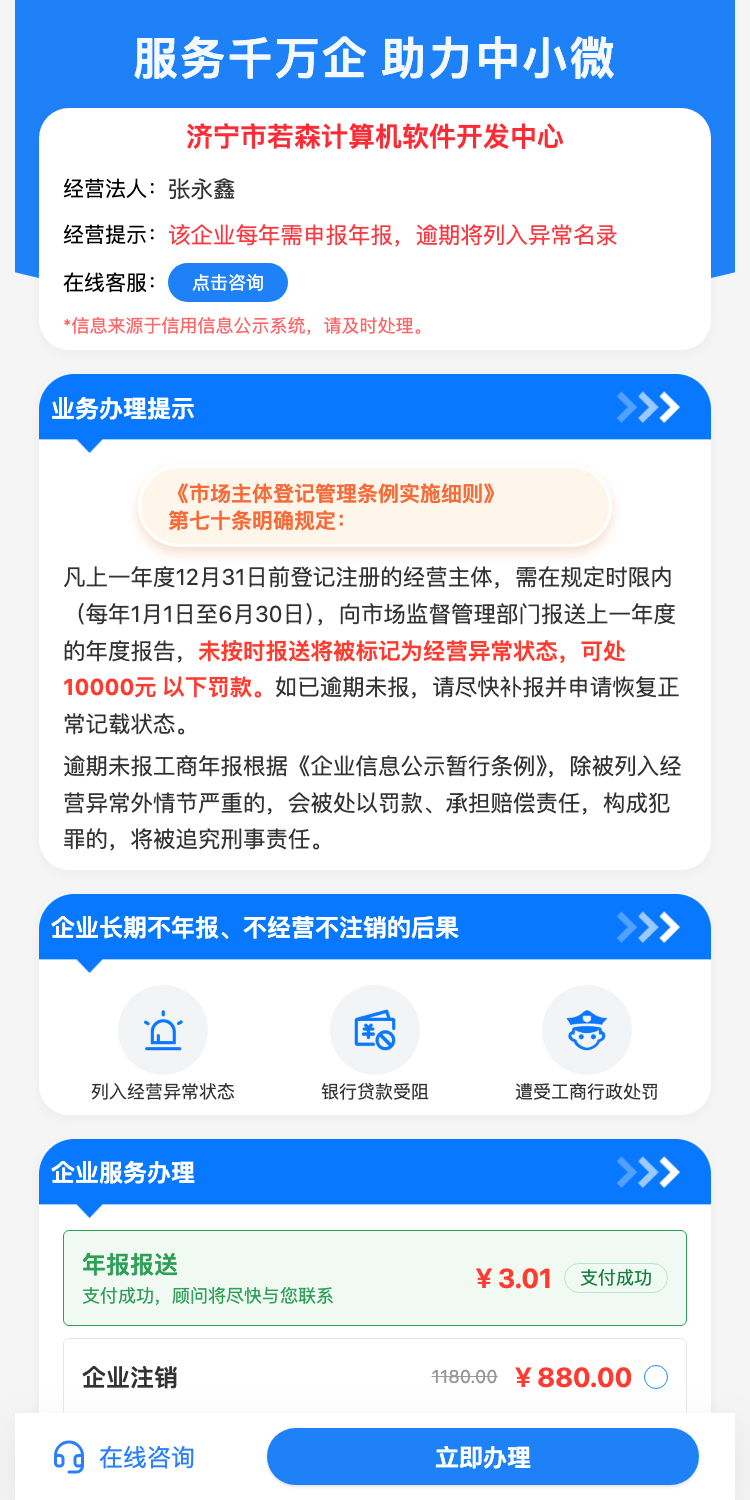
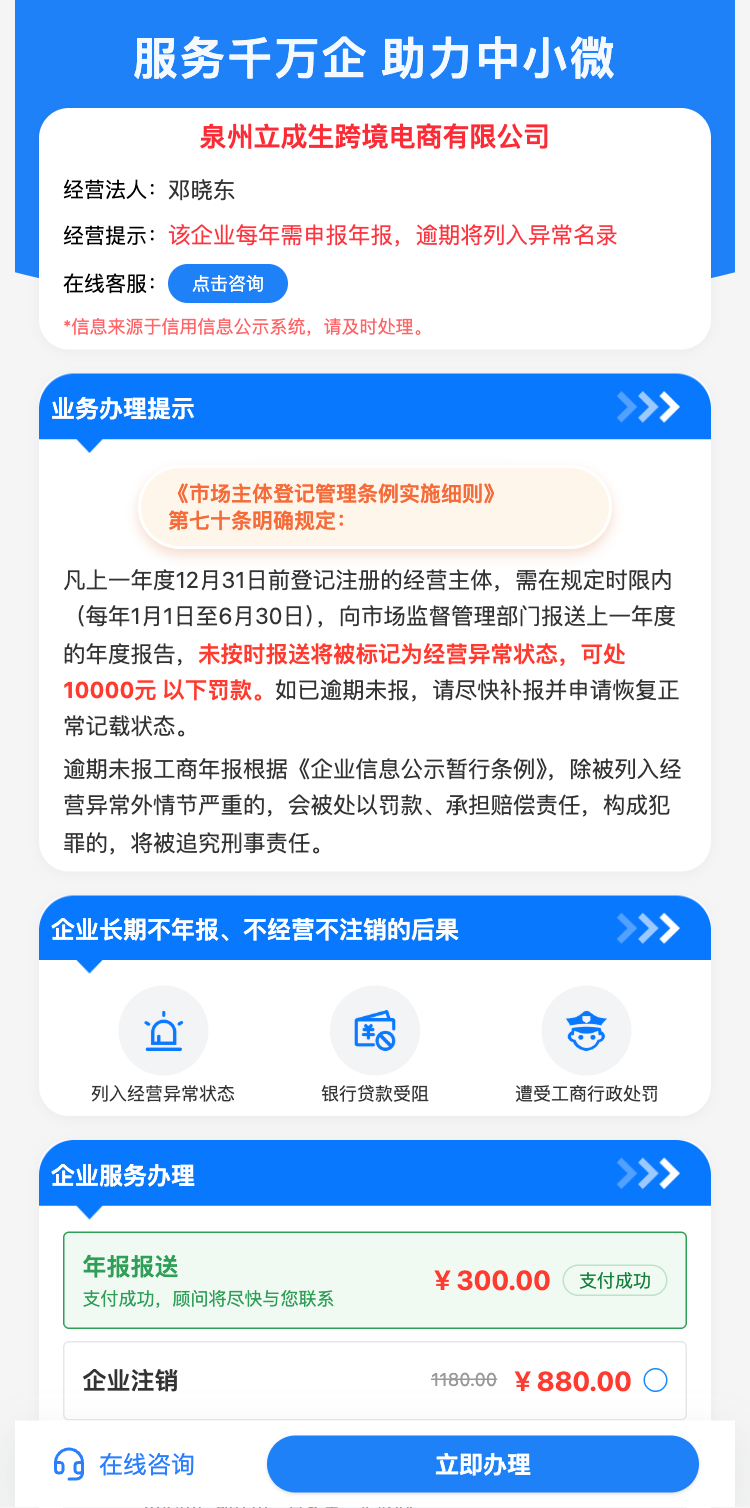
docs: 替换用户端 H5 截图为正常价格企业，补齐服务介绍
- 两张用户端截图换用泉州立成生（全局默认价年报 ¥300/注销 ¥880），
  "支付成功"状态由模拟已支付订单驱动，双图统一 750×1508 规格
- 「我们能做什么」补齐合规与安全保障、专属顾问服务两条，与主仓库 README 一致
- 图片说明改为与实际内容一致：企业专属短链页 / 支付成功提示

diff --git a/README.en.md b/README.en.md
@@ -14,8 +14,8 @@ This repository is for showcasing the enterprise service platform only — it co
 
 <table>
   <tr>
-    <td width="50%"><img src="./docs/image-1.png" alt="Landing page" /></td>
-    <td width="50%"><img src="./docs/image-2.png" alt="Per-company short-link page" /></td>
+    <td width="50%"><img src="./docs/image-1.png" alt="Per-company short-link page" /></td>
+    <td width="50%"><img src="./docs/image-2.png" alt="Payment success dialog" /></td>
   </tr>
 </table>
 
@@ -50,9 +50,11 @@ This repository is for showcasing the enterprise service platform only — it co
     </td>
     <td width="66%" valign="top">
 
-- **Custom development**: Tailored feature modules, UI, and business workflows built around your real business needs.
-- **System integration**: Seamless integration with your existing systems (OA, ERP, finance, etc.).
+- **Custom development**: Tailored feature modules, UI, and business workflows built around your real business needs, delivering a platform truly your own.
+- **System integration**: Seamless integration with your existing systems (OA, ERP, finance, etc.) for smoother information flow.
 - **Ongoing maintenance**: Long-term technical support, upgrades, and incident response to keep your platform stable.
+- **Compliance & security**: Strict adherence to data security and compliance requirements for worry-free operations.
+- **Dedicated consultants**: A dedicated project manager and development team engaged end to end for efficient delivery.
 
     </td>
   </tr>

diff --git a/README.md b/README.md
@@ -14,8 +14,8 @@
 
 <table>
   <tr>
-    <td width="50%"><img src="./docs/image-1.png" alt="平台宣传页" /></td>
-    <td width="50%"><img src="./docs/image-2.png" alt="企业专属短链页" /></td>
+    <td width="50%"><img src="./docs/image-1.png" alt="企业专属短链页" /></td>
+    <td width="50%"><img src="./docs/image-2.png" alt="支付成功提示" /></td>
   </tr>
 </table>
 
@@ -50,9 +50,11 @@
     </td>
     <td width="66%" valign="top">
 
-- **专属定制开发**：根据企业实际业务需求，深度定制功能模块、界面风格与业务流程。
-- **系统集成与对接**：支持与企业现有系统（OA、ERP、财务等）无缝集成。
-- **持续技术维护**：长期技术支持、系统升级、故障响应，保障平台稳定运行。
+- **专属定制开发**：根据企业实际业务需求，深度定制功能模块、界面风格、业务流程，打造专属企业服务平台。
+- **系统集成与对接**：支持与企业现有系统（如OA、ERP、财务等）无缝集成，提升信息流转效率。
+- **持续技术维护**：提供长期技术支持、系统升级、故障响应，保障平台稳定运行。
+- **合规与安全保障**：严格遵循数据安全与合规要求，助力企业无忧经营。
+- **专属顾问服务**：配备资深项目经理与开发团队，全流程对接，确保项目高效落地。
 
     </td>
   </tr>
